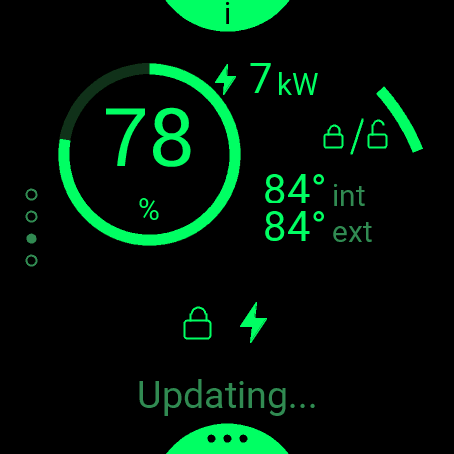
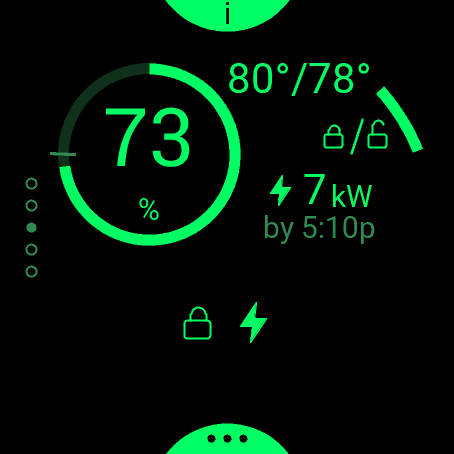
Main screen: finish time while charging and a charge limit tick (#70, #71)
The phone sends `fin`, the car's report time plus its minutes-left estimate
rounded to 5 minutes, only while charging. The watch shows it as "by 5:10p"
(with the weekday when it is not today) under the kW. A tick on the ring
marks the charge limit until the charge reaches it.

The temperatures move to one unlabelled line at the top right ("70°/82°") to
make room, and the kW and finish time take their old place.

diff --git a/android/app/src/main/java/io/github/doubletwist13/orbit/Controller.kt b/android/app/src/main/java/io/github/doubletwist13/orbit/Controller.kt
@@ -340,6 +340,11 @@ internal fun watchReply(id: Number, s: VehicleStatus?, pending: String?): Map<St
         // power only while charging, in whole kW; the car reports a little above zero at times when it is not
         if (it.chargeState == "CHARGING" && it.chargeRateKw in MIN_RATE_KW..maxRateKw(it.model)) {
             put("rate", Math.round(it.chargeRateKw).toInt())
+            // the finish time, not the minutes: minutes go stale on the watch, and a time rounded to 5 minutes does not
+            // change with every report, so it does not trigger a push each time
+            it.chargeMinutes?.takeIf { m -> m in 1..MAX_CHARGE_MIN }?.let { m ->
+                put("fin", Math.round((it.updatedMs / 1000 + m * 60) / 300.0) * 300)
+            }
         }
         it.chargeLimit?.takeIf { l -> l in MIN_LIMIT..MAX_LIMIT }?.let { l -> put("lim", l) }
         it.portOpen?.let { o -> put("port", o) }
@@ -494,6 +499,10 @@ internal fun maxRateKw(model: String): Double = when (model) {
 
 // A day: far longer than any preconditioning run, so only a placeholder (seen: 65565) falls outside it.
 internal const val MAX_PRECON_MIN = 1440
+
+// 250 hours: a 120 V, 12 A charger can take 100+ hours for a full charge and more when it gives less, so only a
+// placeholder (65565 minutes seen for preconditioning) falls outside.
+internal const val MAX_CHARGE_MIN = 15_000
 
 // the lowest limit the car's own app offers, shown on the watch only inside this range
 internal const val MIN_LIMIT = 50

diff --git a/android/app/src/test/java/io/github/doubletwist13/orbit/ControllerTest.kt b/android/app/src/test/java/io/github/doubletwist13/orbit/ControllerTest.kt
@@ -94,6 +94,18 @@ class ControllerTest {
         assertEquals(true, watchReply(1, status.copy(occupantAlert = true), null)["occ"])
     }
 
+    @Test fun finishTimeIsSentOnlyWhileChargingAndPlausible() {
+        val charging = status.copy(chargeState = "CHARGING", chargeRateKw = 48.0, updatedMs = 1_000_000_000_000L)
+        // report time plus the minutes, rounded to the nearest 5 minutes
+        assertEquals(1_000_004_100L, watchReply(1, charging.copy(chargeMinutes = 70), null)["fin"])
+        assertEquals(1_000_004_400L, watchReply(1, charging.copy(chargeMinutes = 71), null)["fin"])
+        assertFalse(watchReply(1, charging, null).containsKey("fin")) // no estimate
+        assertFalse(watchReply(1, status.copy(chargeMinutes = 70), null).containsKey("fin")) // not charging
+        for (bad in listOf(0, -1, 65_565)) {
+            assertFalse(watchReply(1, charging.copy(chargeMinutes = bad), null).containsKey("fin"))
+        }
+    }
+
     @Test fun petModeIsSentOnlyWhileItApplies() {
         assertFalse(watchReply(1, status, null).containsKey("pet"))
         assertEquals(true, watchReply(1, status.copy(petMode = true), null)["pet"])

diff --git a/android/app/src/main/java/io/github/doubletwist13/orbit/LucidClient.kt b/android/app/src/main/java/io/github/doubletwist13/orbit/LucidClient.kt
@@ -90,6 +90,8 @@ data class VehicleStatus(
     val frunkPowered: Boolean = true,
     /** Charging power in kW; 0 when not reported. Only meaningful while the charge state is CHARGING. */
     val chargeRateKw: Double = 0.0,
+    /** The car's own estimate of minutes left in the charge session; null when not reported. */
+    val chargeMinutes: Int? = null,
     /** The charge limit in percent; null when the car reports none. */
     val chargeLimit: Int? = null,
     /** Charge port open (ajar counts as open); null when the car reports no state for it. */
@@ -389,6 +391,7 @@ internal fun Vehicle.toStatus() = VehicleStatus(
     trunkOpen = state.body.rearCargo.isOpen(),
     frunkPowered = config.frunkStrut != StrutType.STRUT_TYPE_GAS,
     chargeRateKw = state.charging.chargeRateKwhPrecise,
+    chargeMinutes = state.charging.sessionMinutesRemaining.takeIf { it > 0 },
     chargeLimit = state.charging.chargeLimitPercent.takeIf { it > 0 }?.let { Math.round(it).toInt() },
     portOpen = state.body.chargePort.isOpen(),
     acSet = state.charging.activeSessionAcCurrentLimit.takeIf { it > 0 },

diff --git a/docs/watch-design.md b/docs/watch-design.md
@@ -35,9 +35,9 @@ readable, so check them for the Venu X1 and fenix):
    anything (Main's delegate does not call the base class, which would turn a tap into the button's select).
 4. **Slices to reach the neighbours.** A small filled slice at the top ("i") and bottom (three dots) of Main is a tap
    target for the page above and below, with a zone larger than what is drawn.
-5. **Main's layout.** The charge is a ring round the number (top left). Temperatures (interior and exterior) sit under
-   the lock button's mark, and the charge power with a bolt in the space between the ring and the mark, only while
-   charging. The state row has the lock, plug and climate in the accent colour (green unless changed, see Theme
+5. **Main's layout.** The charge is a ring round the number (top left). Temperatures (interior and exterior, as "70°/82°",
+   unlabelled for lack of room) sit right of the ring, and while charging the charge power with a bolt and the finish
+   time follow below them. A small tick on the ring marks the charge limit until the charge reaches it. The state row has the lock, plug and climate in the accent colour (green unless changed, see Theme
    below), and in amber an open frunk, trunk or door and a tyre warning, only while they apply; an
    unattended-occupant alert is a red icon first in the row and takes over the glance title. The status line shows
    only a pending command or an error. The age of the data is on About, and a stale screen is dimmed.

diff --git a/docs/protocol.md b/docs/protocol.md
@@ -79,6 +79,7 @@ for an `id` has `pending` absent or empty.
 | `frunk`, `trunk` | bool | Frunk or trunk open (ajar counts as open); omitted when the car reports no state for it |
 | `fpower` | bool | The frunk has a power strut, so the car can close it; `false` for a gas strut, which only opens |
 | `rate` | int | Charging power in whole kW, only while charging, from 0.5 kW to the model's peak (see below) |
+| `fin` | int | Epoch second the charge should finish, rounded to 5 minutes: the car's report time plus its own minutes-left estimate; only while charging and 1 minute to 250 hours (`MAX_CHARGE_MIN`, `Controller.kt`) |
 | `lim` | int | The charge limit in percent; omitted when the car reports none or a value outside 50..100 |
 | `port` | bool | Charge port open (ajar counts as open); omitted when the car reports no state for it |
 | `ac` | int | The AC limit that was set, in amps (not the charger's maximum); omitted when none or outside 10..80 |
